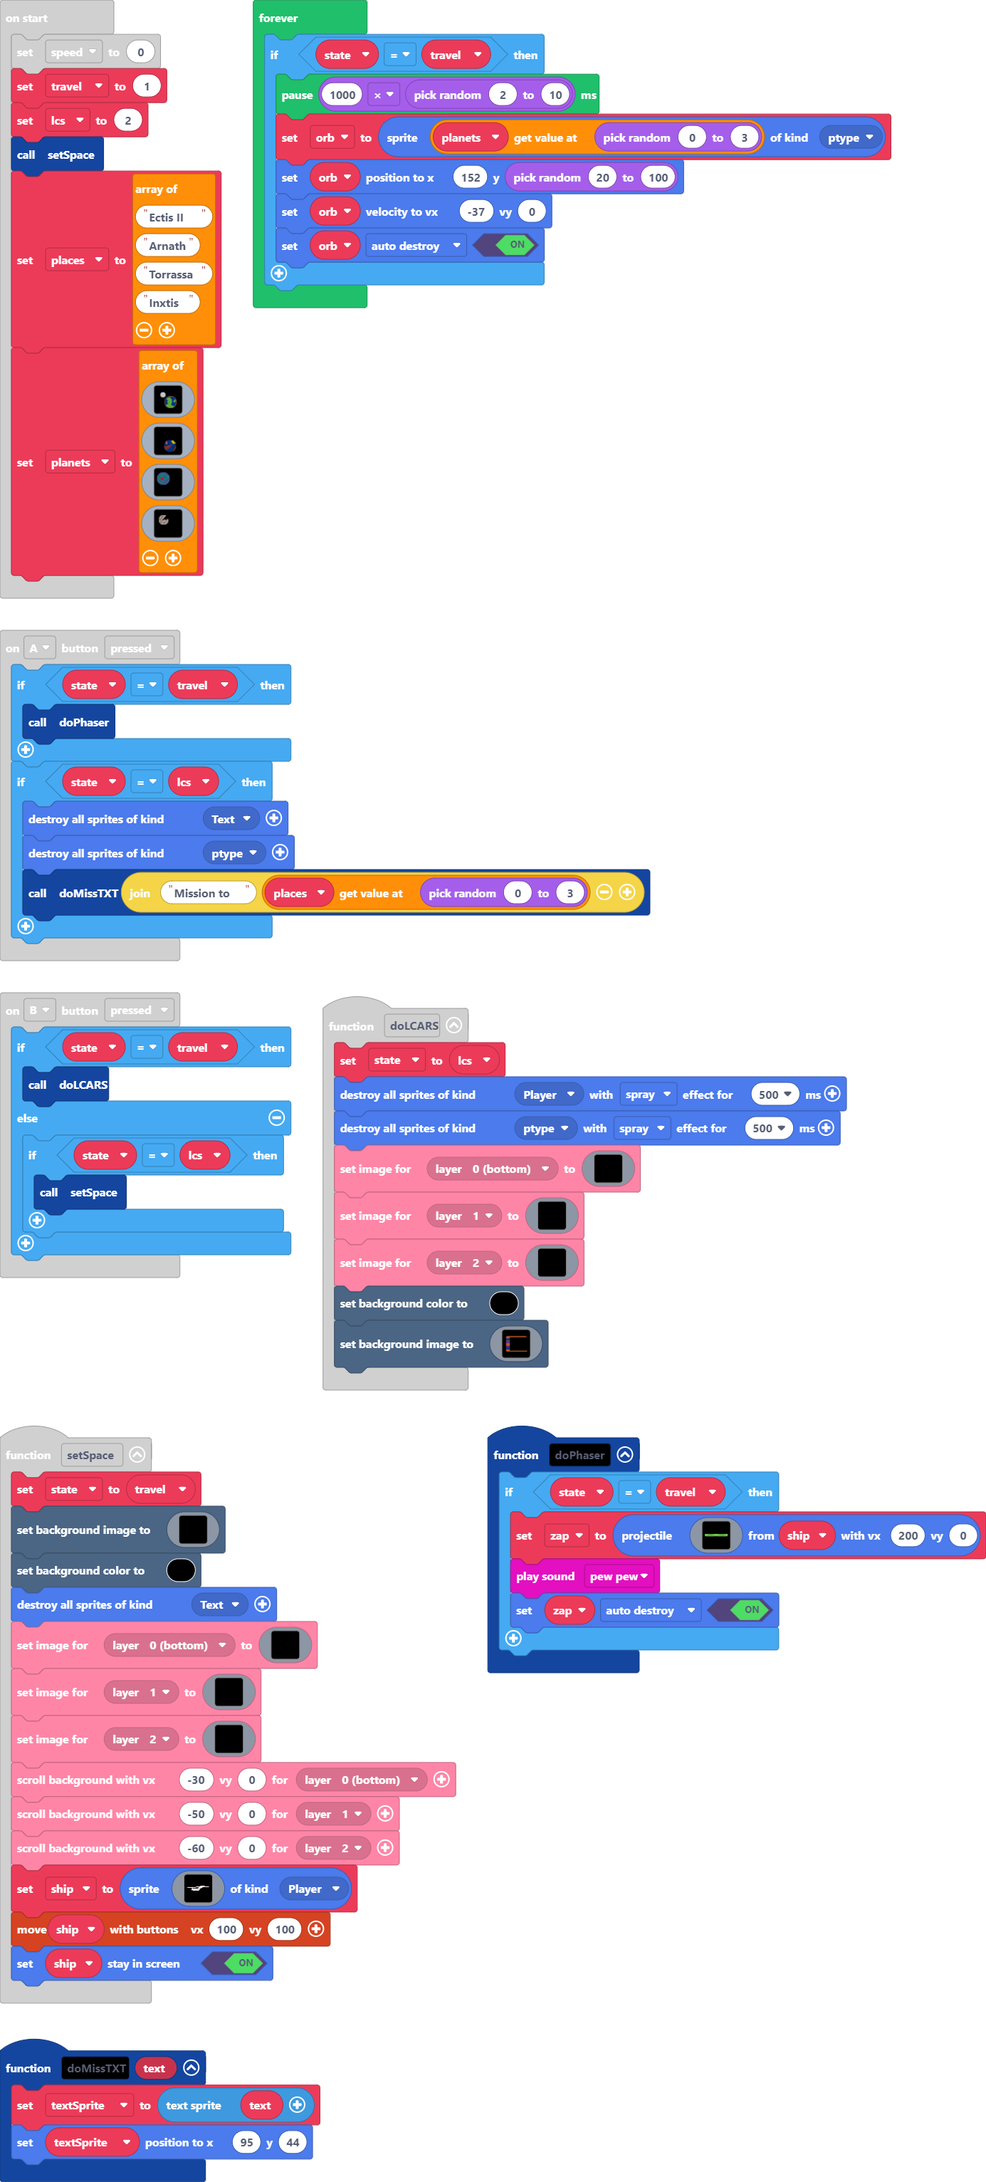
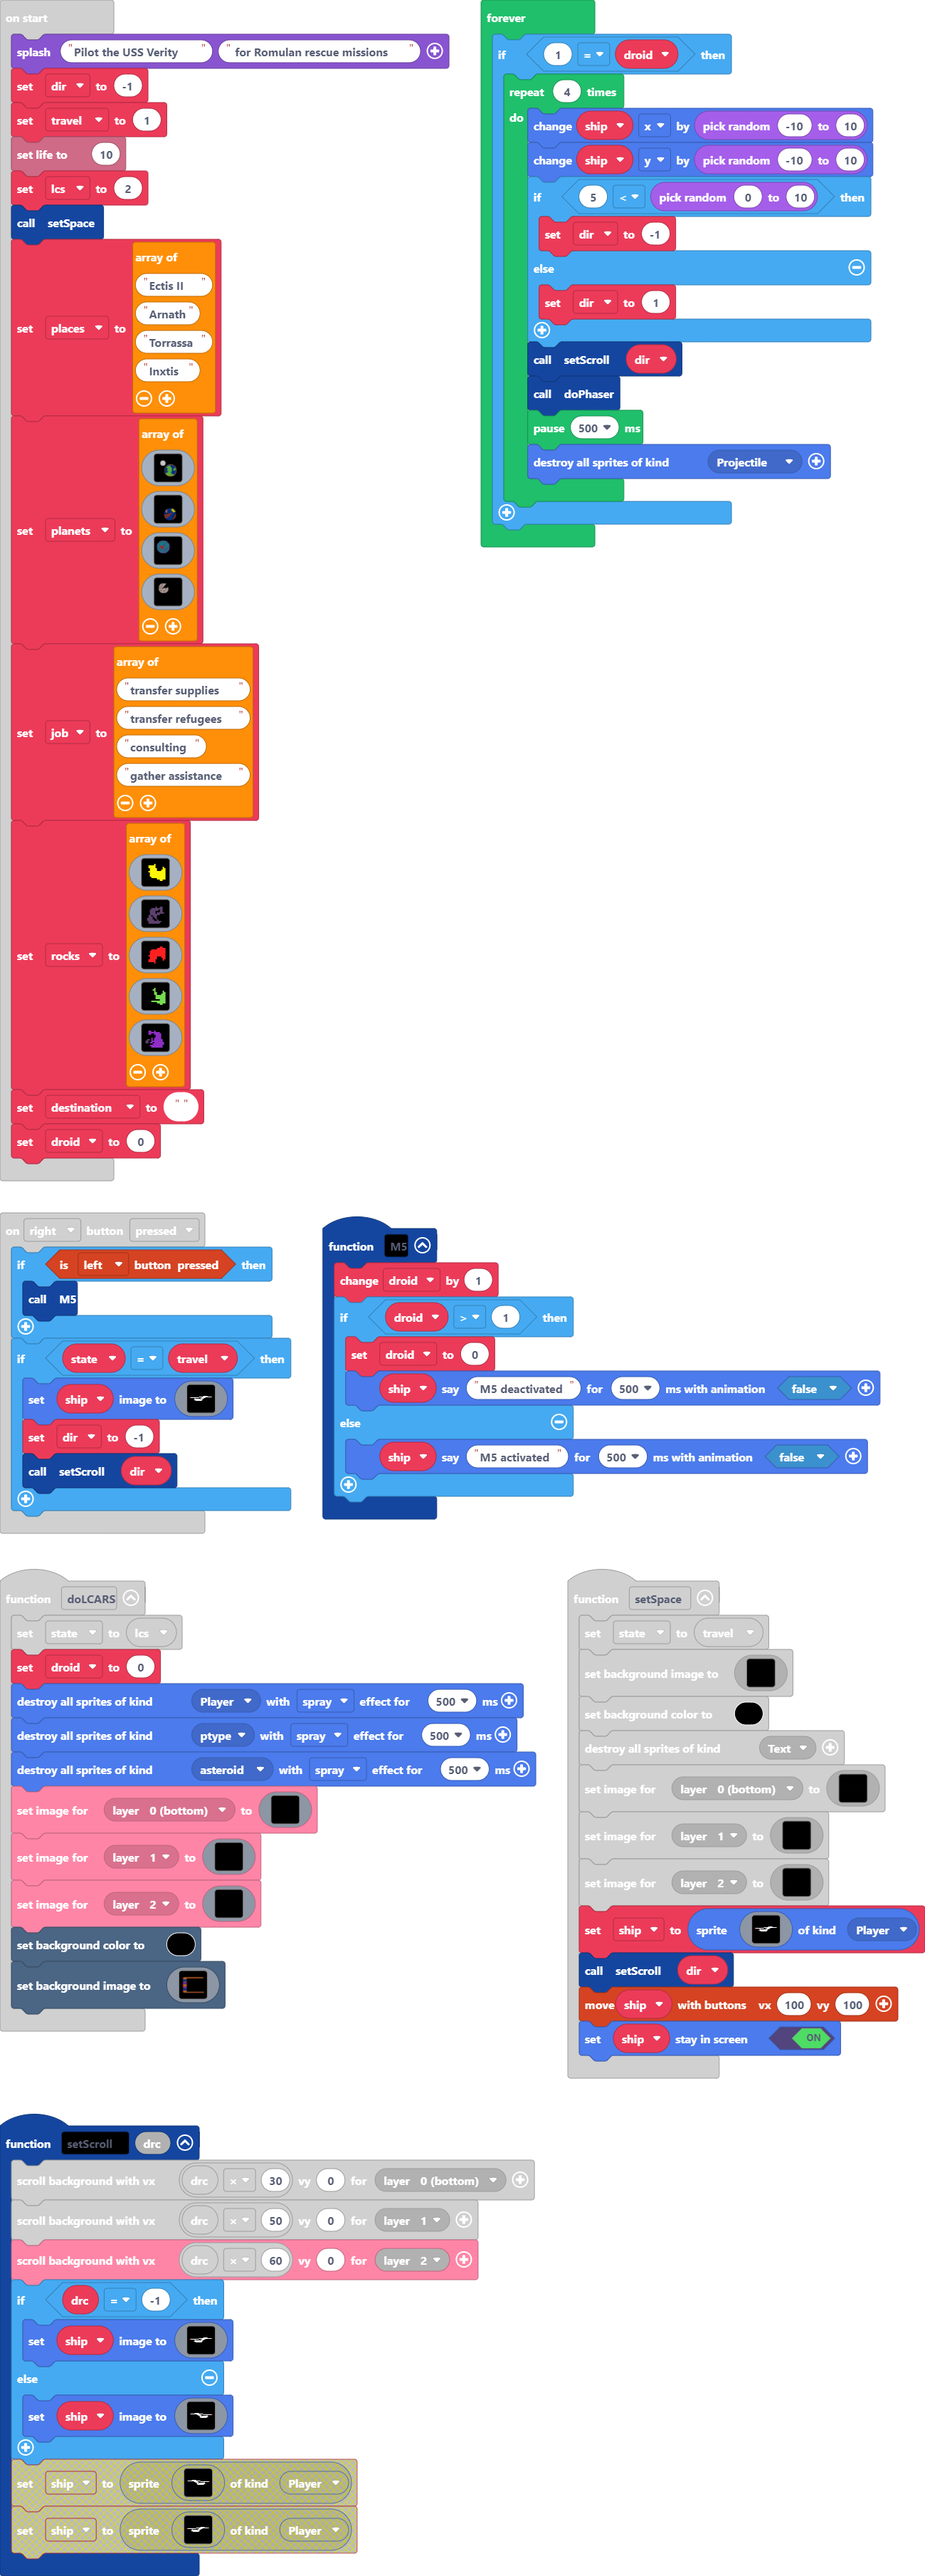
Update main.blocks, main.ts

diff --git a/main.ts b/main.ts
@@ -4,6 +4,7 @@ namespace SpriteKind {
 }
 function doLCARS () {
     state = lcs
+    droid = 0
     sprites.destroyAllSpritesOfKind(SpriteKind.Player)
     sprites.destroyAllSpritesOfKind(SpriteKind.ptype)
     sprites.destroyAllSpritesOfKind(SpriteKind.asteroid)
@@ -21,12 +22,8 @@ function setSpace () {
     scroller.setLayerImage(scroller.BackgroundLayer.Layer0, assets.image`test1`)
     scroller.setLayerImage(scroller.BackgroundLayer.Layer1, assets.image`test0`)
     scroller.setLayerImage(scroller.BackgroundLayer.Layer2, assets.image`test2`)
+    ship = sprites.create(assets.image`Enterprise`, SpriteKind.Player)
     setScroll(dir)
-    if (dir == -1) {
-        ship = sprites.create(assets.image`Enterprise`, SpriteKind.Player)
-    } else {
-        ship = sprites.create(assets.image`Enterprise0`, SpriteKind.Player)
-    }
     controller.moveSprite(ship)
     ship.setStayInScreen(true)
 }
@@ -43,6 +40,11 @@ function setScroll (drc: number) {
     scroller.scrollBackgroundWithSpeed(drc * 30, 0, scroller.BackgroundLayer.Layer0)
     scroller.scrollBackgroundWithSpeed(drc * 50, 0, scroller.BackgroundLayer.Layer1)
     scroller.scrollBackgroundWithSpeed(drc * 60, 0, scroller.BackgroundLayer.Layer2)
+    if (drc == -1) {
+        ship.setImage(assets.image`Enterprise`)
+    } else {
+        ship.setImage(assets.image`Enterprise0`)
+    }
 }
 controller.A.onEvent(ControllerButtonEvent.Pressed, function () {
     if (state == travel) {
@@ -85,12 +87,24 @@ controller.left.onEvent(ControllerButtonEvent.Pressed, function () {
     }
 })
 controller.right.onEvent(ControllerButtonEvent.Pressed, function () {
+    if (controller.left.isPressed()) {
+        M5()
+    }
     if (state == travel) {
         ship.setImage(assets.image`Enterprise`)
         dir = -1
         setScroll(dir)
     }
 })
+function M5 () {
+    droid += 1
+    if (droid > 1) {
+        droid = 0
+        ship.sayText("M5 deactivated", 500, false)
+    } else {
+        ship.sayText("M5 activated", 500, false)
+    }
+}
 function hitShip () {
     music.knock.play()
     scene.cameraShake(4, 500)
@@ -116,20 +130,22 @@ sprites.onOverlap(SpriteKind.Projectile, SpriteKind.asteroid, function (sprite, 
     music.knock.play()
     otherSprite.destroy(effects.fire, 500)
 })
-let planet: Sprite = null
 let ast: Sprite = null
+let planet: Sprite = null
 let zap: Sprite = null
 let ts2: TextSprite = null
 let textSprite: TextSprite = null
 let missdest = 0
 let ship: Sprite = null
 let state = 0
+let droid = 0
 let destination = ""
 let job: string[] = []
 let places: string[] = []
 let lcs = 0
 let travel = 0
 let dir = 0
+game.splash("Pilot the USS Verity", " for Romulan rescue missions")
 dir = -1
 travel = 1
 info.setLife(10)
@@ -161,6 +177,17 @@ assets.image`myImage2`,
 assets.image`myImage3`
 ]
 destination = ""
+droid = 0
+forever(function () {
+    pause(1000 * randint(2, 10))
+    if (state == travel && destination != "") {
+        destination = ""
+        planet = sprites.create(planets[missdest], SpriteKind.ptype)
+        planet.setPosition(152, randint(20, 100))
+        planet.setVelocity(-37, 0)
+        planet.setFlag(SpriteFlag.AutoDestroy, true)
+    }
+})
 forever(function () {
     pause(500 * randint(2, 10))
     if (state == travel) {
@@ -171,12 +198,19 @@ forever(function () {
     }
 })
 forever(function () {
-    pause(1000 * randint(2, 10))
-    if (state == travel && destination != "") {
-        destination = ""
-        planet = sprites.create(planets[missdest], SpriteKind.ptype)
-        planet.setPosition(152, randint(20, 100))
-        planet.setVelocity(-37, 0)
-        planet.setFlag(SpriteFlag.AutoDestroy, true)
+    if (1 == droid) {
+        for (let index = 0; index < 4; index++) {
+            ship.x += randint(-10, 10)
+            ship.y += randint(-10, 10)
+            if (5 < randint(0, 10)) {
+                dir = -1
+            } else {
+                dir = 1
+            }
+            setScroll(dir)
+            doPhaser()
+            pause(500)
+            sprites.destroyAllSpritesOfKind(SpriteKind.Projectile)
+        }
     }
 })
